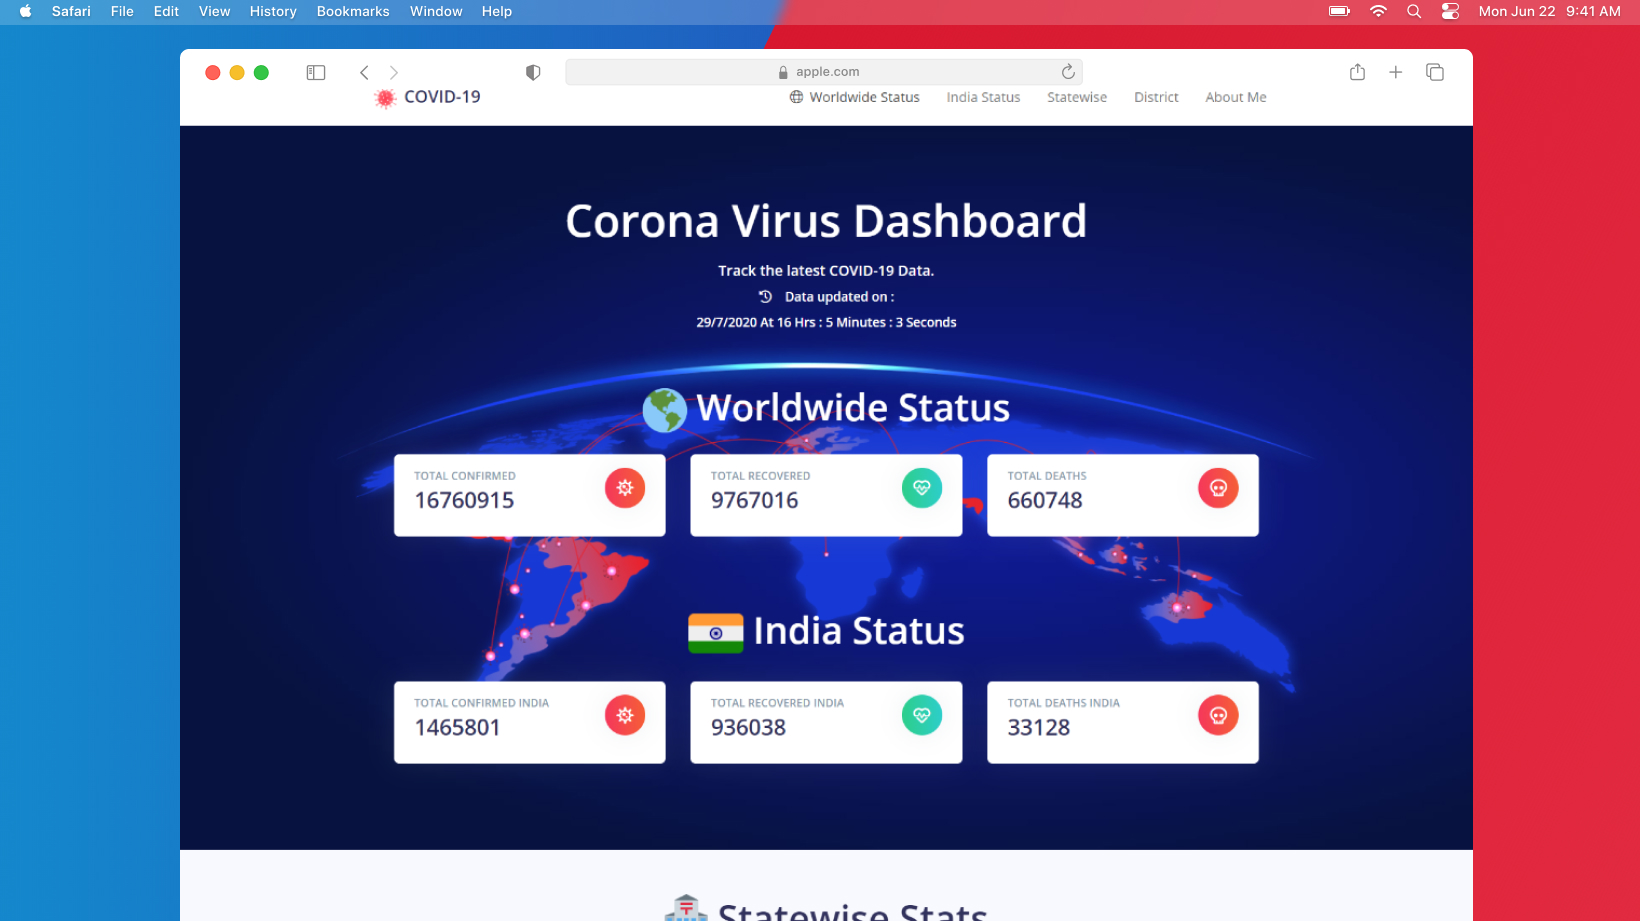
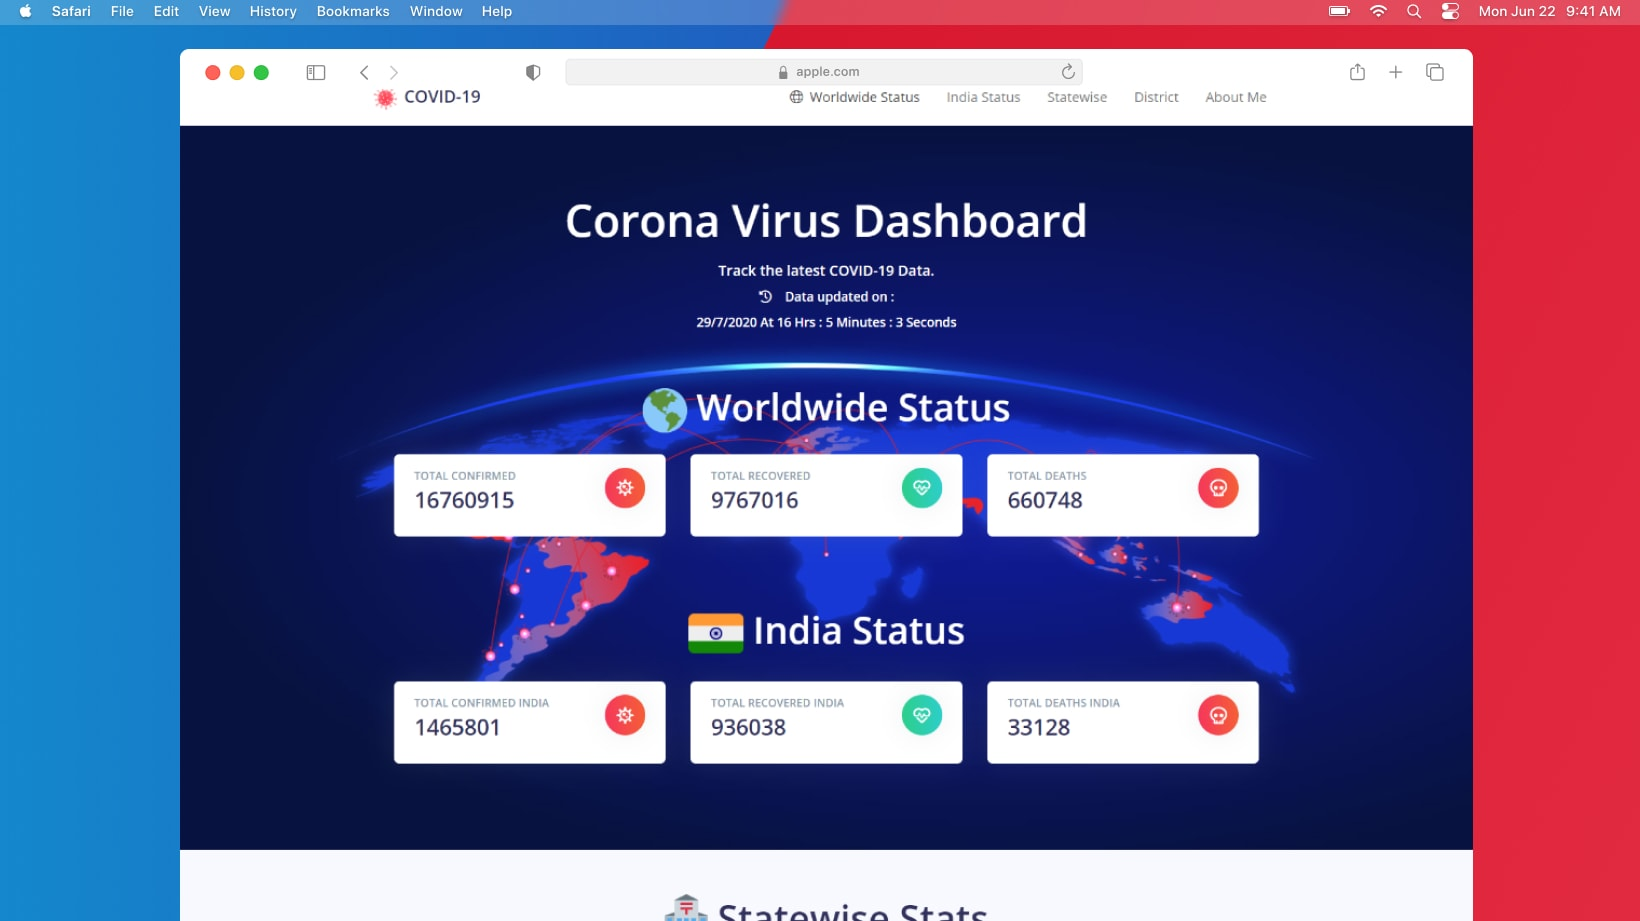
Compressed img from 3.2Mb to 700kb

Changed region(s): [[0.4354, 0.2736, 0.5287, 0.3648], [0.1555, 0.0, 0.2177, 0.0304]]

diff --git a/index.html b/index.html
@@ -73,7 +73,7 @@
        <h1 class="section-title-about">About Me.</h1>
         <div class="card card2">
             <div class="box-image">
-                <img src="/assets/img/img-square.png" alt="">
+                <img src="/assets/img/img-square.jpg" alt="">
             </div>
             <div class="box-text">
                 <!-- <div class="about-heading-row">
@@ -118,7 +118,7 @@
             <!-- Card-1 -->
             <div class="card" style="align-self: flex-start;">
                 <div class="image-container-card">
-                    <img src="assets/img/ProjectThumbnails/semi1.png" alt="">
+                    <img src="assets/img/ProjectThumbnails/semi1.jpg" alt="">
                 </div>
                 <div class="image-caption">
                     <h3 class="project-title">SemiColon.</h3>
@@ -134,7 +134,7 @@
             <!-- Card 2 -->
             <div class="card">
                 <div class="image-container-card">
-                    <img src="assets/img/ProjectThumbnails/tw1.png" alt="">
+                    <img src="assets/img/ProjectThumbnails/tw1.jpg" alt="">
                 </div>
                 <div class="image-caption">
                     <h3 class="project-title">InTask.</h3>
@@ -148,7 +148,7 @@
             <!-- Card 3 -->
             <div class="card">
                 <div class="image-container-card">
-                    <img src="assets/img/ProjectThumbnails/typer.png" alt="">
+                    <img src="assets/img/ProjectThumbnails/typer.jpg" alt="">
                 </div>
                 <div class="image-caption">
                     <h3 class="project-title">TypR.</h3>
@@ -176,7 +176,7 @@
             </div>
             <div class="card">
                 <div class="image-container-card">
-                    <img src="assets/img/ProjectThumbnails/project 1.png" alt="">
+                    <img src="assets/img/ProjectThumbnails/project 1.jpg" alt="">
                 </div>
                 <div class="image-caption">
                     <h3 class="project-title">CampeR.</h3>
